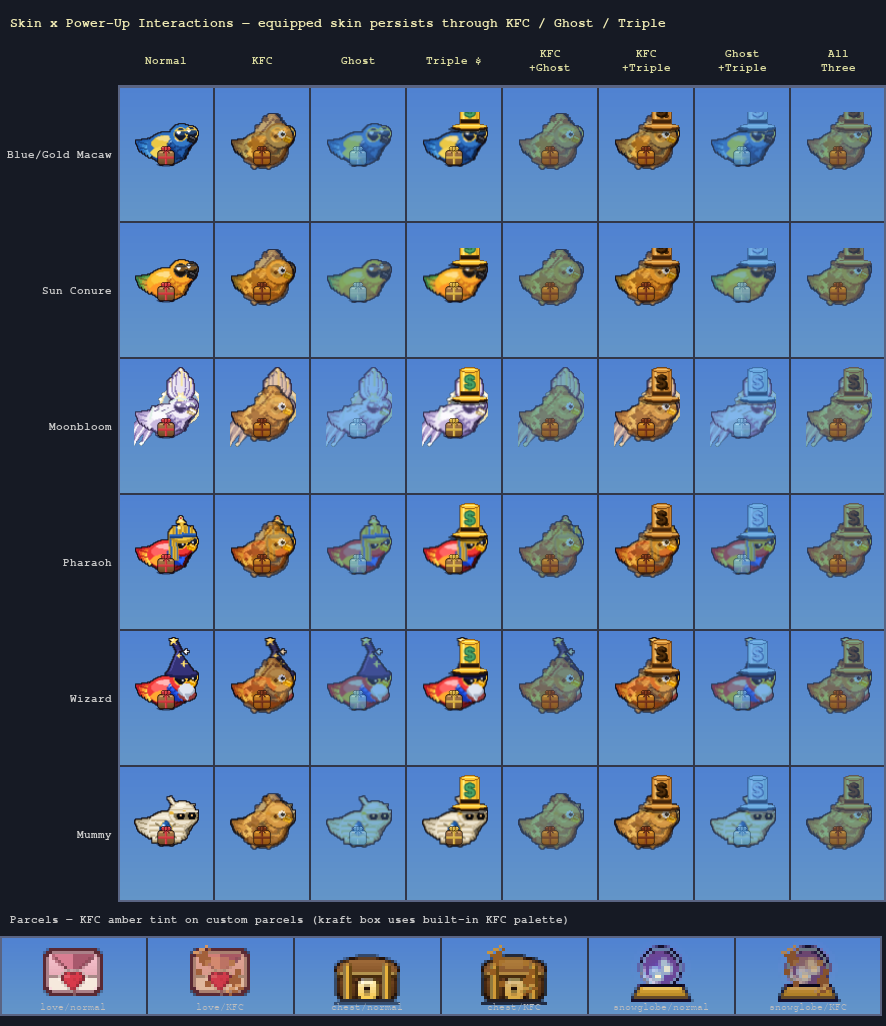
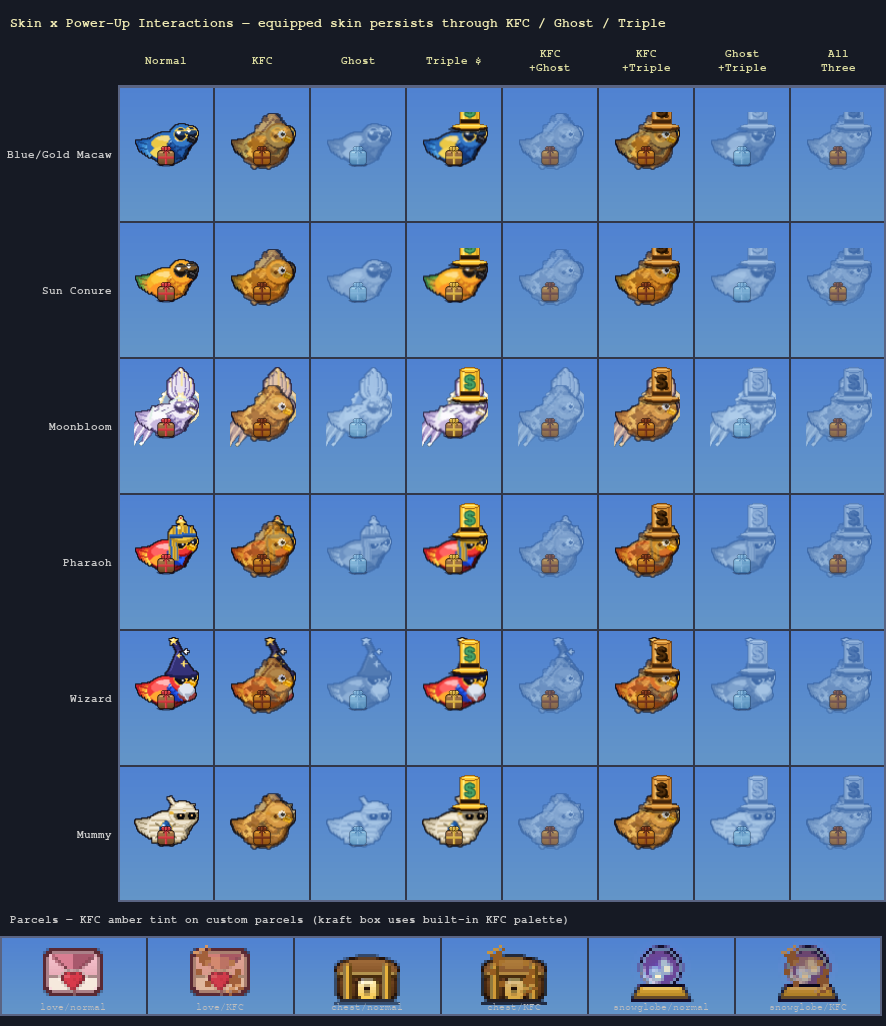
Ghost skins: replace tint with full SPECTRAL palette gradient-map
Adds `_ghostify_in_place` which desaturates the skin to luminance
grayscale (killing all original hues) then gradient-maps the result to
the SPECTRAL palette range: black→(40,80,140), white→(220,240,250).
This matches the approach used by the base macaw's ghost sprite and
produces a purely blue colour plate rather than a dimmed version of the
original skin colours.

Replaces the previous `_cyan_tint_in_place(..., strength=0.72)` call in
`build_skin_powerup_composites`. Re-renders skin_powerup_interactions_v6.

Claude-Session: https://claude.ai/code/session_015DxSDkCugqKBGykq6WeVnV

diff --git a/game/parrot.py b/game/parrot.py
@@ -997,6 +997,24 @@ def tint_copy(sprite, tint, strength):
     return out
 
 
+def _ghostify_in_place(sprite: "pygame.Surface") -> None:
+    """Replace the sprite's colour plate with the SPECTRAL ghost palette.
+
+    Desaturates to luminance-correct grayscale, then gradient-maps:
+      black  → SPECTRAL shadow  (40,  80, 140)
+      white  → SPECTRAL highlight (220, 240, 250)
+    The original skin's light/dark contrast is preserved as variation within
+    the blue range. Alpha is carried through unchanged.
+    """
+    gray = pygame.transform.grayscale(sprite)
+    # MULT scales [0,255] → [0,(180,160,110)]; ADD then lifts base to (40,80,140).
+    # Result: black→(40,80,140), white→(220,240,250) — the SPECTRAL palette range.
+    gray.fill((180, 160, 110, 255), special_flags=pygame.BLEND_MULT)
+    gray.fill(( 40,  80, 140,   0), special_flags=pygame.BLEND_ADD)
+    sprite.fill((0, 0, 0, 0))
+    sprite.blit(gray, (0, 0), special_flags=pygame.BLEND_RGBA_ADD)
+
+
 # Crispy-parcel KFC cache — keyed by parcel_id; built once on first KFC pickup,
 # never invalidated (parcel art is deterministic so the same id always produces
 # the same surface).
@@ -1122,10 +1140,9 @@ def build_skin_powerup_composites(skin_id: str) -> None:
                                   else draw_stovepipe)
                         hat_fn(img, 49 + ax, 12 + ay)
                     if ghost_f:
-                        # Richer, more saturated blue — matches the SPECTRAL palette
-                        # (wing_main ~85,145,210; body_chest ~180,225,245) better than
-                        # the default pale sky-cyan (170,230,255) @ 0.55.
-                        _cyan_tint_in_place(img, tint=(110, 185, 248), strength=0.72)
+                        # Full SPECTRAL palette replacement: kills original hues,
+                        # gradient-maps luminance to the ghost blue range (40,80,140)→(220,240,250).
+                        _ghostify_in_place(img)
                     frames.append(img)
                 combos[(kfc_f, ghost_f, triple_f)] = frames
     _SKIN_COMBOS[skin_id] = combos
